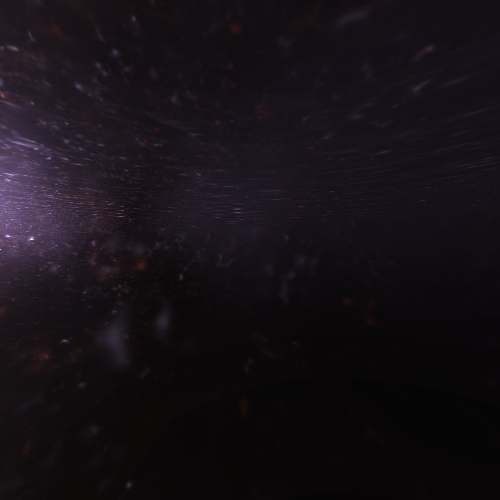
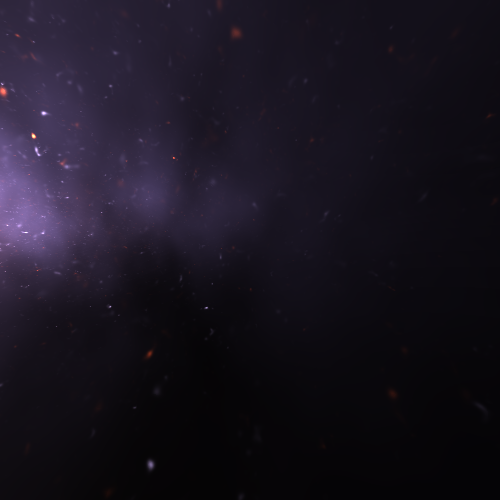
Updates to skybox

diff --git a/astroph/src/galaxy/mod.rs b/astroph/src/galaxy/mod.rs
@@ -1,10 +1,11 @@
 // https://iopscience.iop.org/article/10.1088/0004-637X/783/2/138/pdf
 use noise::{OpenSimplex, NoiseFn};
 
-const RENDER_PRECISION: f32 = 0.02;
+const RENDER_PRECISION: f32 = 0.012;
 const PI: f32 = 3.141592653589793238462643383;
 const ONE_OVER_E: f32 = 0.36787944117;
 const INTENSITY_THRESHOLD: f32 = 2e-5;
+const MIN_DISTANCE: f32 = 0.05;
 
 const BULGE_SED: (f32, f32, f32) = (1.0, 0.7, 0.4);
 const DISK_SED: (f32, f32, f32) = (0.7, 0.6, 1.0);
@@ -62,6 +63,7 @@ pub struct Galaxy {
     disk_dropoff_frac: f32,
     twirl_star: f32,
     twirl_disk: f32,
+    twirl_dust: f32,
     dust_intensity: f32,
     dust_shift: f32,
 }
@@ -91,26 +93,27 @@ impl Galaxy {
             arm_winding_angle: 0.9,
             arm_winding_number: 4,
             arm_count: 3,
-            arm_width_young: 2.4,
+            arm_width_young: 2.8,
             arm_width_old: 1.4,
             arm_old_intensity: 0.3,
-            bulge_intensity: 0.5,
+            bulge_intensity: 4.5,
             bulge_size_frac: 0.2,
-            disk_intensity: 3.0,
+            disk_intensity: 60.0,
             disk_height_frac: 0.06,
-            disk_dropoff_frac: 0.25,
+            disk_dropoff_frac: 0.3,
             twirl_star: 0.1,
-            twirl_disk: 0.5,
-            dust_intensity: 0.6,
+            twirl_disk: 0.4,
+            twirl_dust: 0.5,
+            dust_intensity: 1.0,
             dust_shift: -0.3,
         }
     }
 
     pub fn render(&self, width: usize, height: usize, direction: Direction, pos: [f32; 3]) -> Vec<Vec<(f32, f32, f32)>> {
         let mut output = (0..height).collect::<Vec<_>>().iter().map(|_| { vec![(0.0, 0.0, 0.0); width] }).collect::<Vec<_>>();
-        let disk_map = Self::general_map::<8>(6.0, 1.2, 1);
-        let star_map = Self::general_map::<8>(80.0, 0.5, 8);
-        let dust_map = Self::general_map::<8>(8.0, 1.0, 2);
+        let disk_map = Self::general_map::<8>(12.0, 1.0, 1);
+        let star_map = Self::general_map::<8>(80.0, 0.5, 16);
+        let dust_map = Self::general_map::<8>(8.0, 0.8, 2);
         //let filament_map = Self::general_map::<7>(Theta::Linear, 0.0, 1.0, 4.0);
         for x in 0..width {
             for y in 0..height {
@@ -125,57 +128,39 @@ impl Galaxy {
                 let dir = mul(1.0 / norm(dir), dir);
                 let scaled_pos = mul(1.0 / self.radius, pos);
 
-                let alpha = if dir[2] == 0.0 { -1.0 } else { -scaled_pos[2] / dir[2] };
-                let middle_light_pos = add(scaled_pos, mul(alpha, dir));
-                let is_close_side = norm2(middle_light_pos) < 1.0 && alpha > 0.0;
-                let mut poses_close = Vec::new();
                 let mut poses_far = Vec::new();
-                if is_close_side { // If there is a close side
-                    poses_close.push((middle_light_pos, RENDER_PRECISION));
-                    let mut this_pos = middle_light_pos;
-                    loop {
-                        let length_scale = self.get_length_scale(this_pos[2]);
-                        this_pos = sub(this_pos, mul(length_scale, dir));
-                        if dot(sub(this_pos, scaled_pos), dir) < 0.0 {
-                            break;
+                let mut this_pos = add(scaled_pos, mul(MIN_DISTANCE, dir));
+                if norm2(this_pos) > 1.0 {
+                    // Move this_pos to sphere
+                    let alpha = {
+                        let d = dot(scaled_pos, dir);
+                        let discriminant = d*d - norm2(scaled_pos) + 1.0;
+                        if discriminant < 0.0 {
+                            continue;
                         }
-                        if norm2(this_pos) > 1.0 {
-                            break;
-                        }
-                        poses_close.push((this_pos, length_scale));
-                    }
+                        - d - discriminant.sqrt()
+                    };
+                    this_pos = add(scaled_pos, mul(alpha, dir));
                 }
-                let beta = {
-                    let d = dot(scaled_pos, dir);
-                    let discriminant = d*d - norm2(scaled_pos) + 1.0;
-                    if discriminant < 0.0 {
-                        continue;
-                    }
-                    - d - discriminant.sqrt()
-                };
-                let mut this_pos = if is_close_side {
-                    middle_light_pos
-                } else {
-                    add(scaled_pos, mul(beta.max(0.0) * 1.00000001, dir)) // Just inside sphere
-                };
+                poses_far.push((this_pos, 0.0));
                 loop {
                     let length_scale = self.get_length_scale(this_pos[2]);
                     this_pos = add(this_pos, mul(length_scale, dir));
                     if norm2(this_pos) > 1.0 {
                         // Add a pos that's on the sphere
-                        let gamma = {
+                        let beta = {
                             let d = dot(scaled_pos, dir);
                             - d + (d*d - norm2(scaled_pos) + 1.0).sqrt()
                         };
-                        let sphere_pos = add(scaled_pos, mul(gamma, dir));
+                        let sphere_pos = add(scaled_pos, mul(beta, dir));
                         let length_scale = norm(sub(this_pos, sphere_pos));
-                        poses_far.push((sphere_pos, length_scale));
+                        poses_far.iter_mut().last().unwrap().1 = length_scale;
                         break;
                     }
-                    poses_far.push((this_pos, length_scale));
+                    poses_far.iter_mut().last().unwrap().1 = length_scale;
+                    poses_far.push((this_pos, 0.0));
                 }
                 poses_far.reverse();
-                poses_far.append(&mut poses_close);
 
                 let mut color = (0.0, 0.0, 0.0);
 
@@ -190,11 +175,15 @@ impl Galaxy {
                     let arm_scale_old = (1.0 - 0.9 / max_angle * angle_diff(arm_theta, theta_now, max_angle)).powf(self.arm_width_old);
                     let arm_scale_dust = (1.0 - 0.9 / max_angle * angle_diff(arm_theta + self.dust_shift, theta_now, max_angle)).powf(self.arm_width_young);
                     let disk_scale = self.disk_lum(light_pos[2], r_disk_now);
-                    let dust_disk_scale = self.dust_disk_lum(light_pos[2], r_disk_now);
                     
                     let twirled_pos_disk = [
                         r_disk_now * (theta_now - arm_theta * self.twirl_disk).cos(),
                         r_disk_now * (theta_now - arm_theta * self.twirl_disk).sin(),
+                        light_pos[2]
+                    ];
+                    let twirled_pos_dust = [
+                        r_disk_now * (theta_now - arm_theta * self.twirl_dust).cos(),
+                        r_disk_now * (theta_now - arm_theta * self.twirl_dust).sin(),
                         light_pos[2]
                     ];
                     let twirled_pos_star_young = [
@@ -222,9 +211,9 @@ impl Galaxy {
                     if star_intensity_old >= INTENSITY_THRESHOLD {
                         star_intensity_old *= star_map(twirled_pos_star_old);
                     }
-                    let mut dust_intensity = length_scale * arm_scale_dust * dust_disk_scale * self.dust_intensity;
+                    let mut dust_intensity = length_scale * arm_scale_dust * disk_scale * self.dust_intensity;
                     if dust_intensity >= INTENSITY_THRESHOLD {
-                        dust_intensity *= dust_map(twirled_pos_disk);
+                        dust_intensity *= dust_map(twirled_pos_dust);
                     } 
                     dust_intensity *= 1000.0;
                     
@@ -293,14 +282,12 @@ impl Galaxy {
     }
 
     fn disk_lum(&self, z: f32, r: f32) -> f32 {
-        (z / self.disk_height_frac).cosh().powi(-2) * (-r / self.disk_dropoff_frac).exp()
-    }
-    fn dust_disk_lum(&self, z: f32, r: f32) -> f32 {
         let ratio = r / self.disk_dropoff_frac;
         (z / self.disk_height_frac).cosh().powi(-2) * (if ratio > 1.0 { (-ratio).exp() } else { ratio * ONE_OVER_E })
     }
     fn get_length_scale(&self, z: f32) -> f32 {
         //((z / self.disk_height_frac).cosh().powi(2) * RENDER_PRECISION).min(0.2)
-        (((z / self.disk_height_frac).powi(2) + 1.0)* RENDER_PRECISION).min(0.2)
+        //(((z / self.disk_height_frac).powi(2) + 1.0)* RENDER_PRECISION).min(0.3)
+        (((z / self.disk_height_frac).abs() + 1.0)* RENDER_PRECISION).min(0.3)
     }
 }

diff --git a/astroph/src/tests.rs b/astroph/src/tests.rs
@@ -1,6 +1,6 @@
 use crate::prelude::*;
 use std::path::Path;
-const PERCENTILE: f32 = 0.9;
+const PERCENTILE: f32 = 0.99;
 
 const WIDTH: usize = 500;
 const HEIGHT: usize = 500;
@@ -29,7 +29,7 @@ fn get_top_map() {
 #[test]
 fn get_side_map() {
     let g = Galaxy::default();
-    let pixels = g.render(WIDTH, HEIGHT, Direction::Forward, [-35_000.0, 0.0, -5_000.0]);
+    let pixels = g.render(WIDTH, HEIGHT, Direction::Forward, [-35_000.0, 10.0, -5_000.0]);
     let mut brightnesses = pixels.concat().iter().map(|c| { f32::max((c.0 + c.1 + c.2) / 3.0, 0.0) }).collect::<Vec<_>>();
     brightnesses.sort_by(|a, b| a.partial_cmp(b).unwrap());
     let median = brightnesses[(WIDTH as f32 * HEIGHT as f32 * PERCENTILE) as usize];
